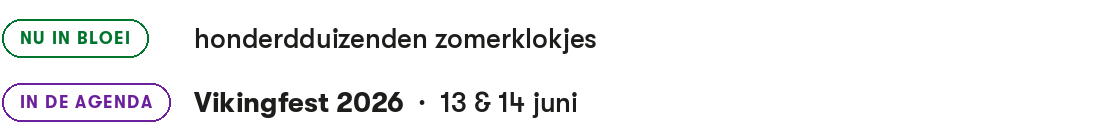
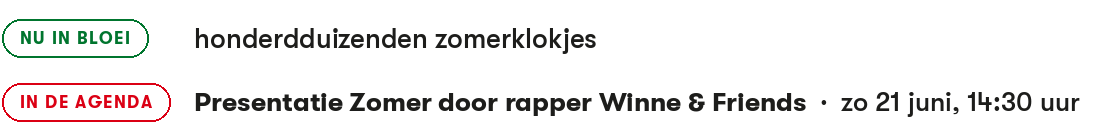
Handtekening ververst 2026-06-12

Changed region(s): [[0.0, 0.6571, 0.9688, 0.8571], [0.0, 0.5714, 0.1562, 0.6286], [0.0, 0.8571, 0.1562, 0.8857]]

diff --git a/docs/index.html b/docs/index.html
@@ -96,20 +96,20 @@ handtekening vanzelf terug naar het eerstvolgende.</p>
 </table></div>
 
 <h2>In bloei</h2>
-<p class="klein" style="margin:0 0 6px">Wat er volgens de bloeikalender te zien is.
-De handtekening wisselt elke dag tussen de blikvangers en mooie regels van dat moment.</p>
+<p class="klein" style="margin:0 0 6px">Wat er volgens de bloeikalender te zien is —
+de handtekening wisselt elke dag tussen deze regels.</p>
 <p style="margin:0 0 8px">
   <input type="date" id="peildatum" onchange="toonBloei()">
   <button class="knopje" onclick="zetNu()">Nu</button>
 </p>
 <div class="scroll"><table id="bloeitabel">
-  <thead><tr><th>Wat</th><th>Van</th><th>Tot</th><th></th></tr></thead>
+  <thead><tr><th>Wat</th><th>Van</th><th>Tot</th></tr></thead>
   <tbody></tbody>
 </table></div>
 <p class="klein">Klopt er iets niet, of bloeit er iets nieuws? Hoveniers werken de kalender bij op de
 <a href="beheer.html">beheerpagina</a>.</p>
 
-<p class="klein" style="margin-top:28px">Vandaag: "Nu in bloei: honderdduizenden zomerklokjes" en "In de agenda: Vikingfest 2026 · 13 & 14 juni".
+<p class="klein" style="margin-top:28px">Vandaag: "Nu in bloei: honderdduizenden zomerklokjes" en "In de agenda: Presentatie Zomer door rapper Winne & Friends · zo 21 juni, 14:30 uur".
 · <a href="handtekening.txt">tekstversie</a></p>
 
 <script>
@@ -255,7 +255,7 @@ async function laadBloei() {
     toonBloei();
   } catch (e) {
     document.querySelector('#bloeitabel tbody').innerHTML =
-      '<tr><td colspan="4" class="klein">Bloeikalender kon niet geladen worden.</td></tr>';
+      '<tr><td colspan="3" class="klein">Bloeikalender kon niet geladen worden.</td></tr>';
   }
 }
 function toonBloei() {
@@ -263,14 +263,13 @@ function toonBloei() {
   const v = document.getElementById('peildatum').value || isoVan(new Date());
   const d = new Date(v + 'T12:00:00');
   const idx = idxVan(d.getMonth() + 1, d.getDate() <= 15 ? 1 : 2);
-  const woord = { 1: 'blikvanger', 2: 'mooi', 3: 'voor de fijnproever' };
   const rijen = bloei.entries
     .filter(e => isActief(e, idx) && !(e.pauze_tot && e.pauze_tot >= v))
     .sort((a, b) => a.prio - b.prio || (a.tekst < b.tekst ? -1 : 1))
     .map(e => '<tr><td>' + esc(e.tekst) + '</td><td>' + labelVan(idxVan(...e.van)) +
-      '</td><td>' + labelVan(idxVan(...e.tot)) + '</td><td class="klein">' + woord[e.prio] + '</td></tr>');
+      '</td><td>' + labelVan(idxVan(...e.tot)) + '</td></tr>');
   document.querySelector('#bloeitabel tbody').innerHTML =
-    rijen.join('') || '<tr><td colspan="4" class="klein">Niets actief op deze datum.</td></tr>';
+    rijen.join('') || '<tr><td colspan="3" class="klein">Niets actief op deze datum.</td></tr>';
 }
 function zetNu() { document.getElementById('peildatum').value = isoVan(new Date()); toonBloei(); }
 
